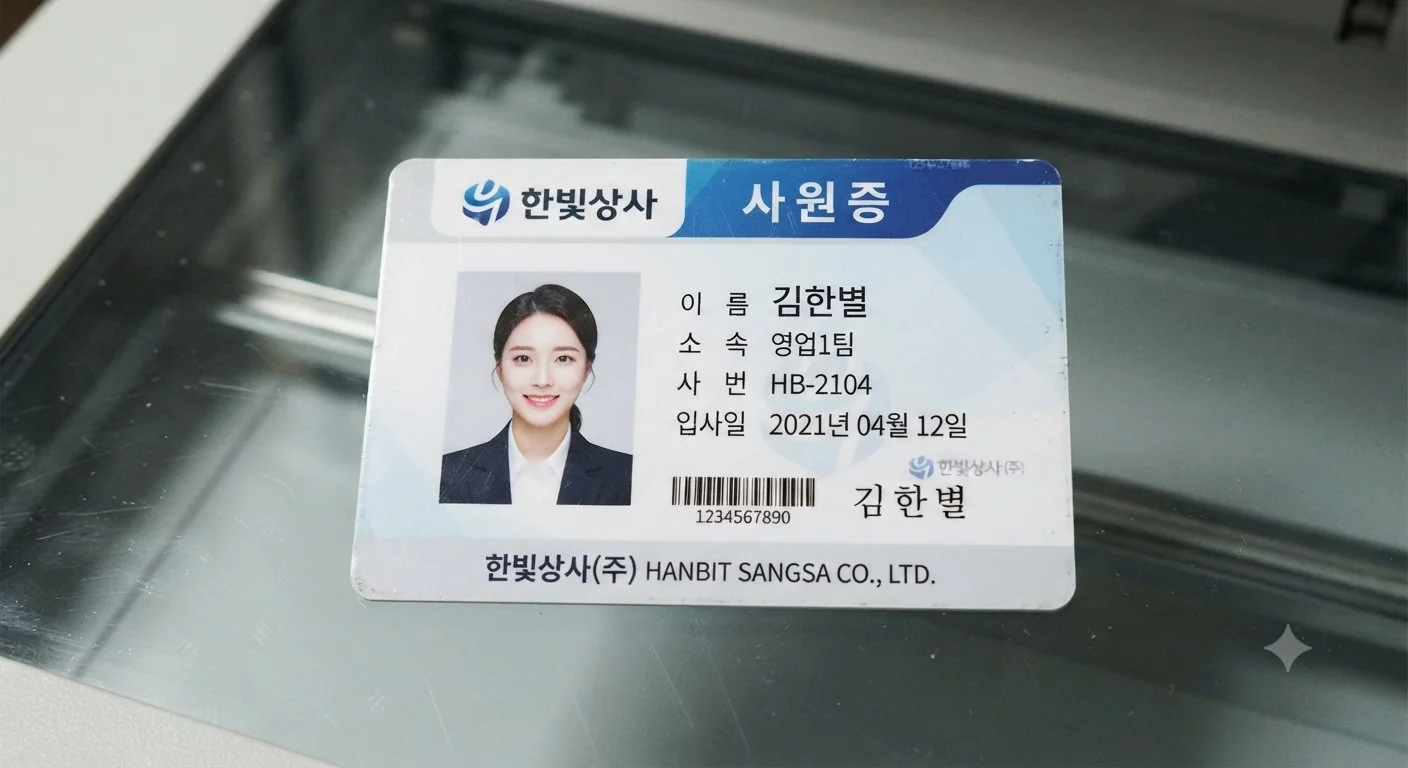
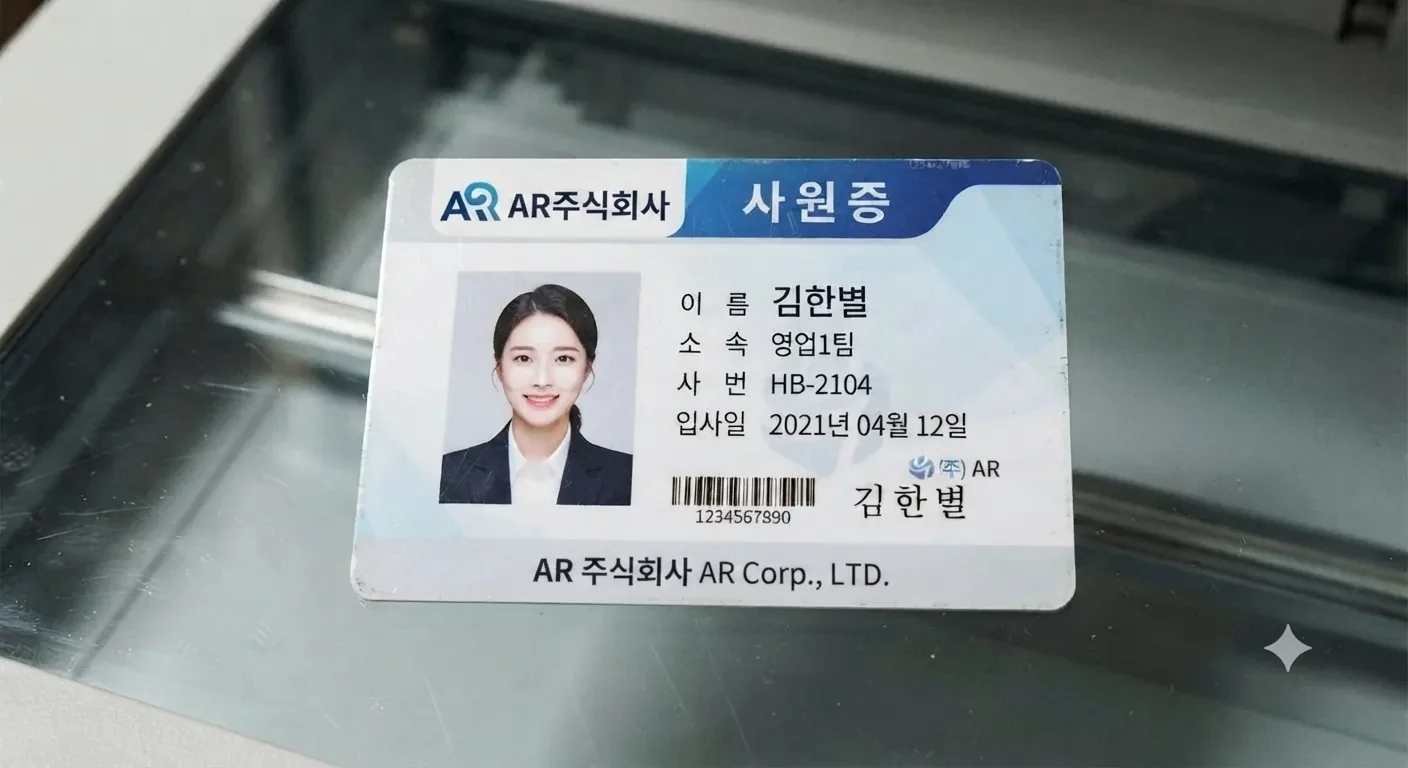
feat: newest mail on top, and rename the company to AR 주식회사
Mail dates are display strings, so sorting parses the day and time out of
them; a reply the player just sent is dated 방금 and sorts to the top.

The rename covers everything the name reached: the building, the shops named
after it, the portal and wiki domains, the messenger, the wifi SSID, the PC
name, the employee number, and the answer 엄마 asks for.

diff --git a/test/save.test.js b/test/save.test.js
@@ -23,7 +23,7 @@ const settle = () => new Promise((r) => setTimeout(r, 450))
 describe('save / load', () => {
   it('carries progress into the next session', async () => {
     const useGame = await freshStore()
-    useGame.setState({ unlocked: { 'wiki.hanbit.co.kr': true }, msgCount: 3, scratch: '입사일 0412', readMails: { mail_client: true } })
+    useGame.setState({ unlocked: { 'wiki.ar.co.kr': true }, msgCount: 3, scratch: '입사일 0412', readMails: { mail_client: true } })
     useGame.getState().openWindow('browser')
     useGame.getState().saveGame()
 
@@ -31,7 +31,7 @@ describe('save / load', () => {
     vi.resetModules()
     const next = (await freshStore()).getState()
 
-    expect(next.unlocked['wiki.hanbit.co.kr']).toBe(true)
+    expect(next.unlocked['wiki.ar.co.kr']).toBe(true)
     expect(next.msgCount).toBe(3)
     expect(next.scratch).toBe('입사일 0412')
     expect(next.readMails).toEqual({ mail_client: true })
@@ -40,18 +40,18 @@ describe('save / load', () => {
 
   it('picks the autosave up again after a plain refresh', async () => {
     const useGame = await freshStore()
-    useGame.setState({ unlocked: { 'wiki.hanbit.co.kr': true }, scratch: '메모' })
+    useGame.setState({ unlocked: { 'wiki.ar.co.kr': true }, scratch: '메모' })
     await settle()
 
     vi.resetModules()
     const next = (await freshStore()).getState()
-    expect(next.unlocked['wiki.hanbit.co.kr']).toBe(true)
+    expect(next.unlocked['wiki.ar.co.kr']).toBe(true)
     expect(next.scratch).toBe('메모')
   })
 
   it('drops the autosave when a new game starts', async () => {
     const useGame = await freshStore()
-    useGame.setState({ unlocked: { 'wiki.hanbit.co.kr': true } })
+    useGame.setState({ unlocked: { 'wiki.ar.co.kr': true } })
     await settle()
     globalThis.location = { reload() {} }
     useGame.getState().newGame()

diff --git a/test/mailorder.test.js b/test/mailorder.test.js
@@ -1,0 +1,39 @@
+import { describe, expect, it } from 'vitest'
+import { mailTime, sortMails } from '../src/engine/store.js'
+
+const at = (date) => ({ date })
+
+describe('mail ordering', () => {
+  it('reads the day and the time out of a Korean date line', () => {
+    expect(mailTime('8월 21일 (금) 16:42')).toBeGreaterThan(mailTime('8월 21일 (금) 09:12'))
+    expect(mailTime('8월 21일 (금) 09:12')).toBeGreaterThan(mailTime('8월 11일 (화) 10:03'))
+    expect(mailTime('7월 24일')).toBeLessThan(mailTime('8월 1일'))
+  })
+
+  it('treats a reply the player just sent as the newest thing there is', () => {
+    expect(mailTime('방금')).toBeGreaterThan(mailTime('12월 31일 (수) 23:59'))
+  })
+
+  it('puts the newest mail at the top', () => {
+    const inbox = [
+      at('8월 21일 (금) 16:42'), at('8월 11일 (화) 10:03'),
+      at('8월 20일 (목) 09:12'), at('8월 18일 (화) 03:11')
+    ]
+    expect(sortMails(inbox).map((m) => m.date)).toEqual([
+      '8월 21일 (금) 16:42', '8월 20일 (목) 09:12',
+      '8월 18일 (화) 03:11', '8월 11일 (화) 10:03'
+    ])
+  })
+
+  it('keeps the later of two mails that landed at the same moment on top', () => {
+    const first = at('방금')
+    const second = at('방금')
+    expect(sortMails([first, second])[0]).toBe(second)
+  })
+
+  it('leaves the caller list alone', () => {
+    const inbox = [at('8월 11일 (화) 10:03'), at('8월 21일 (금) 16:42')]
+    sortMails(inbox)
+    expect(inbox[0].date).toBe('8월 11일 (화) 10:03')
+  })
+})

diff --git a/src/engine/store.js b/src/engine/store.js
@@ -424,6 +424,22 @@ export const searchCompanies = (list, q) =>
 export const searchTerms = (list, q) =>
   searchIn(list, q, ['word', 'reading', 'body', 'tags'])
 
+// mail dates read like "8월 21일 (금) 16:42". a reply the player just sent is
+// dated "방금" — that one belongs at the very top, so it sorts as the latest.
+const JUST_NOW = 1e9
+export function mailTime(date = '') {
+  const day = date.match(/(\d+)월\s*(\d+)일/)
+  if (!day) return JUST_NOW
+  const [, h = 0, m = 0] = date.match(/(\d+):(\d+)/) ?? []
+  return ((+day[1] * 31 + +day[2]) * 24 + +h) * 60 + +m
+}
+
+// newest first; same timestamp falls back to the order they arrived in
+export const sortMails = (mails) => mails
+  .map((m, i) => [m, i])
+  .sort(([a, i], [b, j]) => mailTime(b.date) - mailTime(a.date) || j - i)
+  .map(([m]) => m)
+
 // Titles and addresses only. Matching page contents would surface the wiki's
 // price table in results and let a player skip its password gate entirely.
 export const searchSites = (sites, q) => searchIn(sites, q, ['title', 'url'])

diff --git a/test/malware.test.js b/test/malware.test.js
@@ -24,8 +24,8 @@ describe('the phishing mail', () => {
   })
 
   it('can be told apart from the real IT mail by its sender domain', () => {
-    expect(real.from).toContain('@hanbit.co.kr')
-    expect(spam.from).not.toContain('@hanbit.co.kr')
+    expect(real.from).toContain('@ar.co.kr')
+    expect(spam.from).not.toContain('@ar.co.kr')
   })
 
   it('gives itself away — an executable, sent in the small hours, with a threat', () => {
@@ -54,7 +54,7 @@ describe('what running it costs', () => {
     expect(after.from).toBe(desk.name)
     expect(after.lines.length).toBeGreaterThan(2)
     // the lesson has to name what the player should have spotted
-    expect(after.lines.join(' ')).toContain('hanbit-security.co.kr')
+    expect(after.lines.join(' ')).toContain('ar-security.co.kr')
     expect(after.lines.join(' ')).toContain('.exe')
   })
 })

diff --git a/src/apps/Mail.jsx b/src/apps/Mail.jsx
@@ -1,5 +1,5 @@
 import { useState } from 'react'
-import { useGame } from '../engine/store.js'
+import { sortMails, useGame } from '../engine/store.js'
 import Compose from './Compose.jsx'
 import { ChevronDown, ChevronUp, Paperclip, Search, Send, Star } from '../icons/line.jsx'
 
@@ -17,7 +17,7 @@ export default function Mail() {
   const [sent, setSent] = useState(false)
   const [q, setQ] = useState('')
 
-  const all = [...scenario.mails, ...extraMails]
+  const all = sortMails([...scenario.mails, ...extraMails])
   const term = q.trim().toLowerCase()
   const mails = term
     ? all.filter((m) => `${m.subject} ${m.from} ${m.body}`.toLowerCase().includes(term))

diff --git a/src/apps/Browser.jsx b/src/apps/Browser.jsx
@@ -336,8 +336,8 @@ export default function Browser() {
                 이 PC는 사내 시스템 접근 승인 목록에 없습니다.<br />
                 장기 미접속 계정은 IP 승인이 만료될 수 있습니다.
               </p>
-              <div className="blk-help">한빛톡 &gt; <b>정보보안팀</b> 으로 문의해 주세요.</div>
-              <div className="blk-code">HANBIT-SEC-403 · {site.url}</div>
+              <div className="blk-help">AR톡 &gt; <b>정보보안팀</b> 으로 문의해 주세요.</div>
+              <div className="blk-code">AR-SEC-403 · {site.url}</div>
             </div>
           </div>
         )}

diff --git a/src/apps/registry.jsx b/src/apps/registry.jsx
@@ -13,7 +13,7 @@ const WorkMessenger = () => <Messenger source="workMessenger" />
 const PrivateMessenger = () => <Messenger source="privateMessenger" />
 
 export const APPS = {
-  messenger: { title: '한빛톡', icon: 'workchat', comp: WorkMessenger, w: 780, h: 560 },
+  messenger: { title: 'AR톡', icon: 'workchat', comp: WorkMessenger, w: 780, h: 560 },
   chat: { title: '톡톡', icon: 'chat', comp: PrivateMessenger, w: 780, h: 560 },
   mail: { title: '메일', icon: 'mail', comp: Mail, w: 780, h: 540 },
   explorer: { title: '파일 탐색기', icon: 'folder', comp: FileExplorer, w: 640, h: 420 },

diff --git a/test/portal.test.js b/test/portal.test.js
@@ -83,7 +83,7 @@ const TERMS = [
   '견적서', '단가', '재고', '출장비', '연락처', '예약',
   '맛집', '맥주', '술집', '점심', '주소', '회사',
   'BS-200', 'BS-100', '바코드', '스캐너',
-  '한빛', 'A상사', 'B물산', 'C테크',
+  'AR', 'A상사', 'B물산', 'C테크',
   '날씨', '워크숍', '회식', '카페', '냉면', '순대국', '해장',
   '결재', '품의', '휴가', '연차', '보안', '피싱', '악성코드',
   'hwp', '엑셀', '파워포인트', '야근', '커피', '지하철', '주차',

diff --git a/src/apps/Cmd.jsx b/src/apps/Cmd.jsx
@@ -49,7 +49,7 @@ export default function Cmd() {
     const out = !typed ? []
       : cmd === 'ipconfig' ? ipconfig(net)
         : cmd === 'hostname' ? [net.host, '']
-          : cmd === 'whoami' ? [`hanbit\\${net.user}`, '']
+          : cmd === 'whoami' ? [`ar\\${net.user}`, '']
             : cmd === 'help' ? HELP
               : [`'${typed}'은(는) 내부 또는 외부 명령, 실행할 수 있는 프로그램,`,
                  '또는 배치 파일이 아닙니다.', '']

diff --git a/src/shell/Desktop.jsx b/src/shell/Desktop.jsx
@@ -7,7 +7,7 @@ const SHORTCUTS = [
   { label: '휴지통', icon: 'trash', app: 'explorer', props: { startFolder: '휴지통' } },
   { label: '브라우저', icon: 'globe', app: 'browser' },
   { label: '메일', icon: 'mail', app: 'mail' },
-  { label: '한빛톡', icon: 'workchat', app: 'messenger' },
+  { label: 'AR톡', icon: 'workchat', app: 'messenger' },
   { label: '톡톡', icon: 'chat', app: 'chat' },
   { label: '메모장', icon: 'notepad', app: 'notepad' }
 ]

diff --git a/src/apps/Portal.jsx b/src/apps/Portal.jsx
@@ -46,7 +46,7 @@ export default function Portal({ site }) {
   return (
     <div className="pt">
       <div className="pt-top">
-        <span className="pt-logo">HANBIT</span>
+        <span className="pt-logo">AR</span>
         <nav>{p.nav.map((n) => <span key={n}>{n}</span>)}</nav>
         <span className="pt-top-icons">
           <Search size={15} strokeWidth={2} />

diff --git a/test/folderNav.test.js b/test/folderNav.test.js
@@ -83,7 +83,7 @@ describe('work folder', () => {
 
 describe('browser history', () => {
   const home = { kind: 'home' }
-  const site = { kind: 'site', url: 'wiki.hanbit.co.kr' }
+  const site = { kind: 'site', url: 'wiki.ar.co.kr' }
   const found = { kind: 'search', q: '맥주' }
 
   it('walks back through visited pages of any shape', () => {
